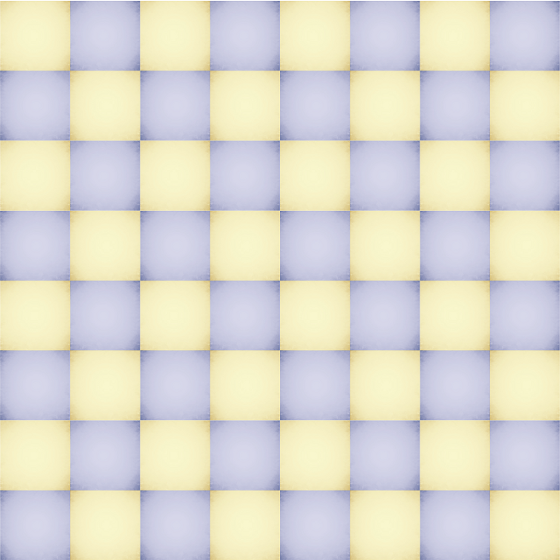
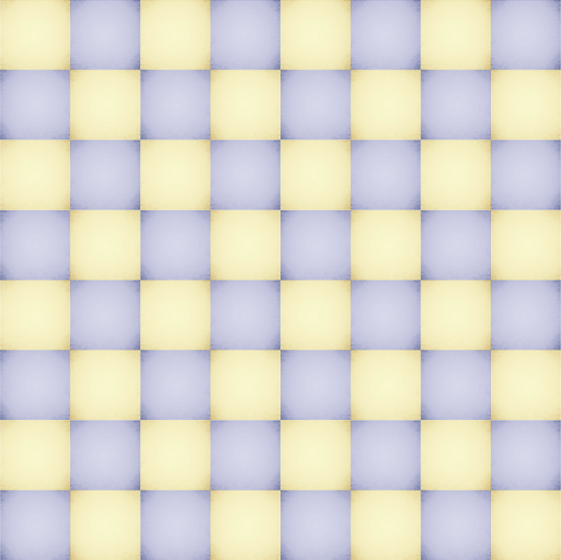
Board description without picture in background. Closes #67

diff --git a/public/css/playground.css b/public/css/playground.css
@@ -105,24 +105,40 @@ body {
 }
 
 /* content */
-
-#turnBlue {
+.board-labels {
     position: absolute;
-    left: 0; top: 0;
-    width: 640px;
-    height: 640px;
-    display: none;
-    box-shadow: 5px 5px 25px darkblue;
-    z-index: 2;
+}
+.bl-top, .bl-bottom {
+    width: 85vmin;
+    height: 5vmin;
+}
+.bl-right, .bl-left{
+    width: 5vmin;
+    height: 85vmin;
+}
+.board-labels > div {
+    float: left;
+    text-align: center;
+    font-size: 4vmin;
+    color: midnightblue;
+}
+.bl-top > div, .bl-bottom > div {
+    width: 10.625vmin;
+    height: 5vmin;
+    line-height: 5vmin;
+}
+.bl-right > div, .bl-left > div {
+    width: 5vmin;
+    height: 10.625vmin;
+    line-height: 10.625vmin;
 }
 
-#turnYellow {
+.turnIndicator {
     position: absolute;
     left: 0; top: 0;
     width: 640px;
     height: 640px;
     display: none;
-    box-shadow: 5px 5px 25px orange;
     z-index: 2;
 }
 
@@ -132,13 +148,18 @@ body {
     left: 0; right: 0;
     top: 0; bottom: 0;
     display: block;
-    width: 85vmin;
-    height: 85vmin;
+    width: 95vmin;
+    height: 95vmin;
+    padding: 5vmin;
     z-index: 10;
+    background-color: white;
 }
 
 #board-anchor {
     position: absolute;
+    background: url("/img/board.png");
+    background-size: contain;
+    background-repeat: no-repeat;
     height: 85vmin;
     width: 85vmin;
     z-index: 20;
